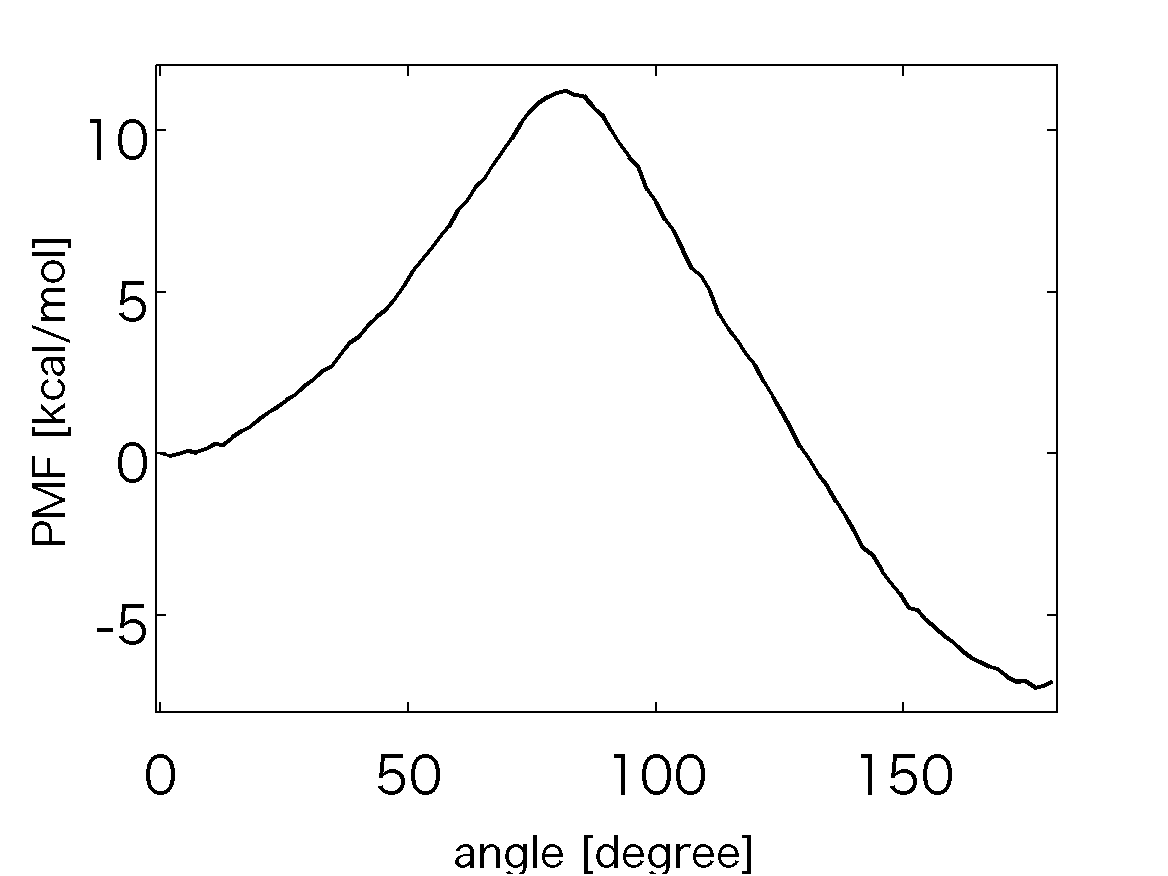
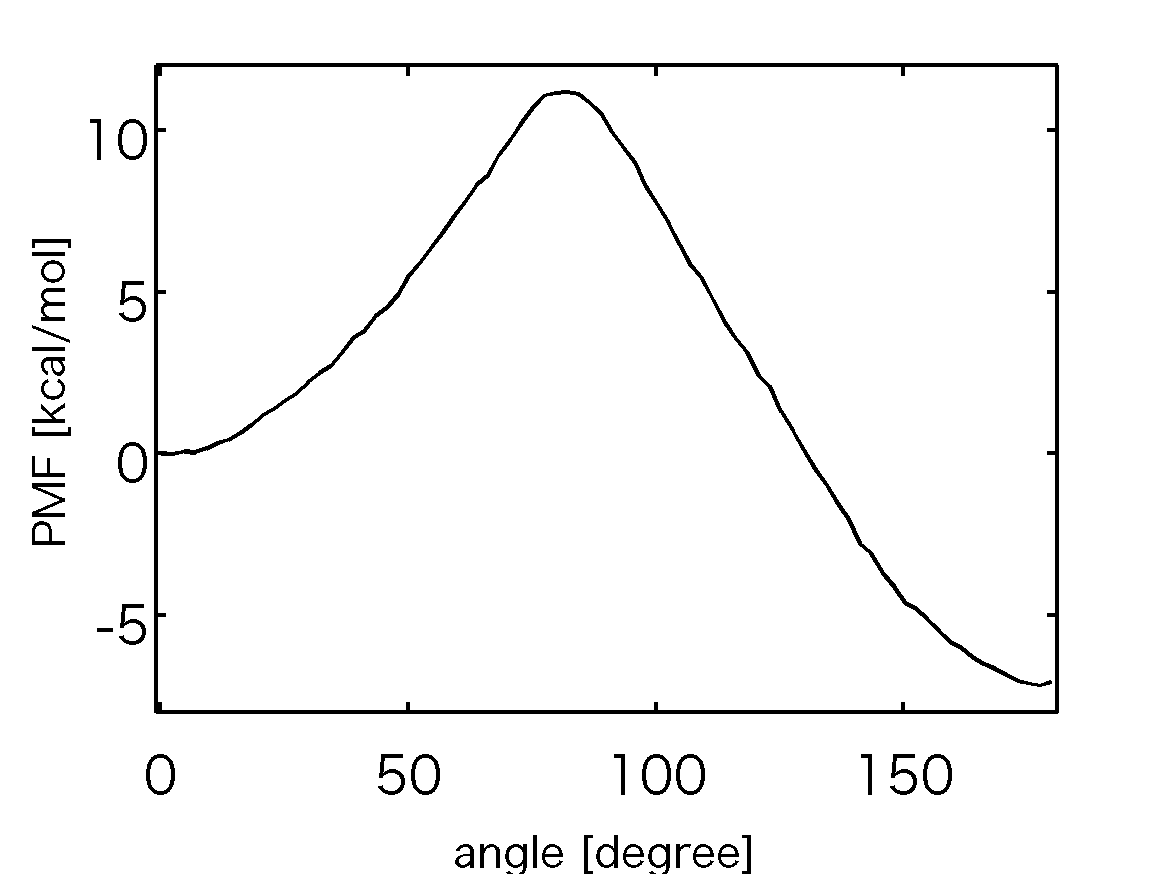
update mbar example

Changed region(s): [[0.863, 0.7705, 0.8938, 0.8014], [0.1233, 0.4932, 0.1541, 0.524]]

diff --git a/mbar.rst b/mbar.rst
@@ -45,7 +45,7 @@ Multistate Bennett Acceptance Ratio (MBAR) (``example/umbrella_alat/mbar/analyze
   f_k = mbar(u_kl);
   
   %% PMF
-  edge = linspace(-1, 181, 101);
+  edge = linspace(-1, 181, 81);
   for i = 1:numbrella
     [bin_k{i}, center] = assign1dbins(dihedral_k{i}, edge);
   end
